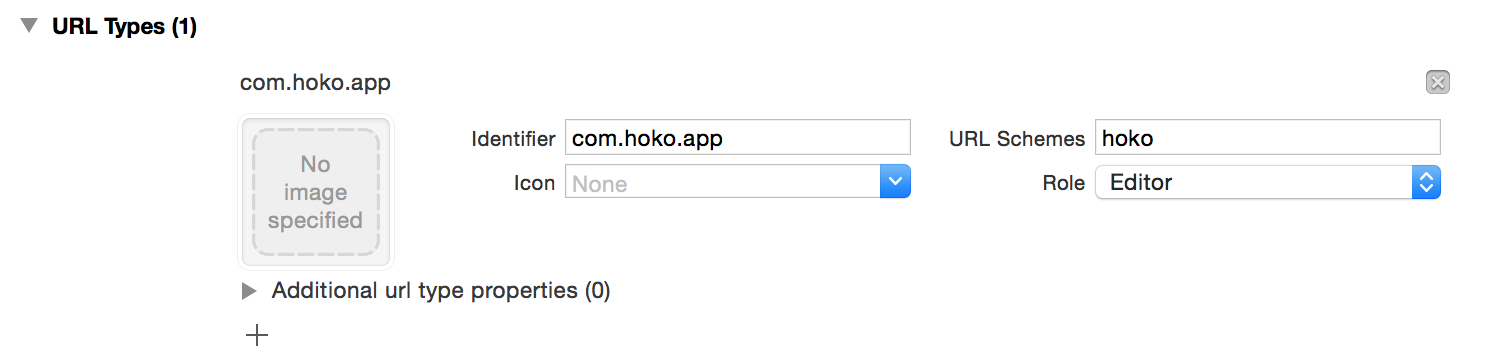
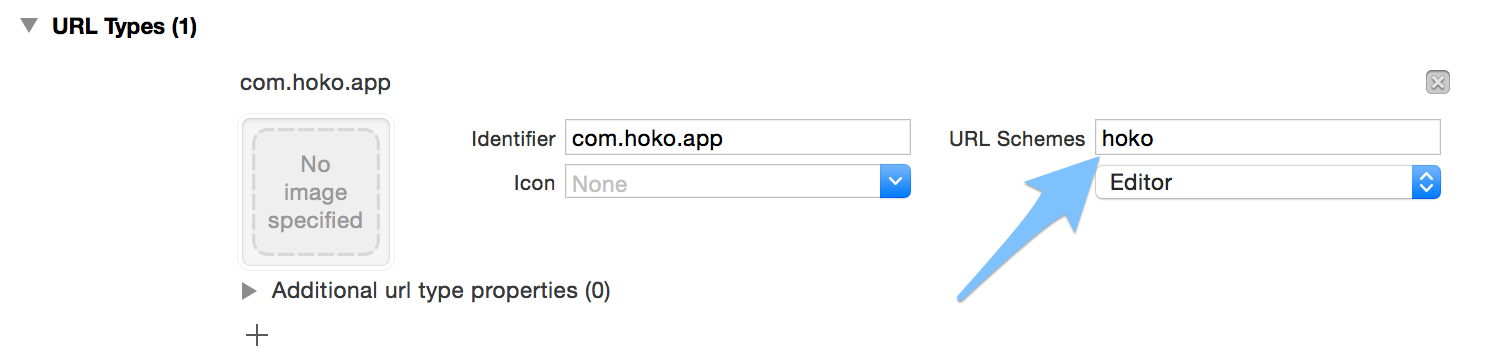
URL Scheme section enhanced.

Changed region(s): [[0.6225, 0.4231, 0.747, 0.8159]]

diff --git a/_posts/2015-03-02-quickstart-ios.md b/_posts/2015-03-02-quickstart-ios.md
@@ -41,7 +41,14 @@ Because the HOKO SDK is written in `Objective-C`, you'll have to manually add a 
 
 ## Add a URL Scheme to your App
 
-Next, we need to define our custom URL type. Remember, we want to open the app via **"hoko://"**, so that will be our URL scheme. We also need to assign an unique identifier to the scheme. Apple recommends that you use reverse DNS notation to ensure that there are no name collisions on the platform, so we’ll use **"com.hoko.app"** for this example.
+Next, we need to define your app’s custom URL type, if you don’t have one already. **Open your Xcode project settings and under the "Info" tab expand the "URL Types" section.** You can skip this step if you already configured a URL type.
+
+If this section is empty, click in the "+" icon to add a new URL type. Let's say that we want to open the app via *"hoko://"*. Hence we need to enter *"hoko"* in *URL Schemes*.
+
+We also should assign a unique *Identifier* to this URL type. Apple recommends that you use reverse DNS notation to ensure that there are no name collisions between types. In this example we are going to use "com.hoko.app".
+
+Take note of your URL Scheme because we will ask you for it, when you are creating an app through the dashboard, e.g. "hoko".
+
 
 ![URL Scheme](/assets/images/ios_url_schemes.png)
 

diff --git a/_posts/2015-03-31-ios-deeplinking.md b/_posts/2015-03-31-ios-deeplinking.md
@@ -279,4 +279,4 @@ Hoko.deeplinking().openSmartlink(slink, completion: { (deeplink: HOKDeeplink?) -
 
 If you choose not to have a completion block, you can use the `openSmartlink:` method without the 2nd parameter.
 
-<a href="http://support.hokolinks.com/ios/use-cases/" class="btn-next">View Possible Use Cases &#8594;</a>
+<a href="http://support.hokolinks.com/ios/use-cases/" class="btn-next">View possible use cases &#8594;</a>
